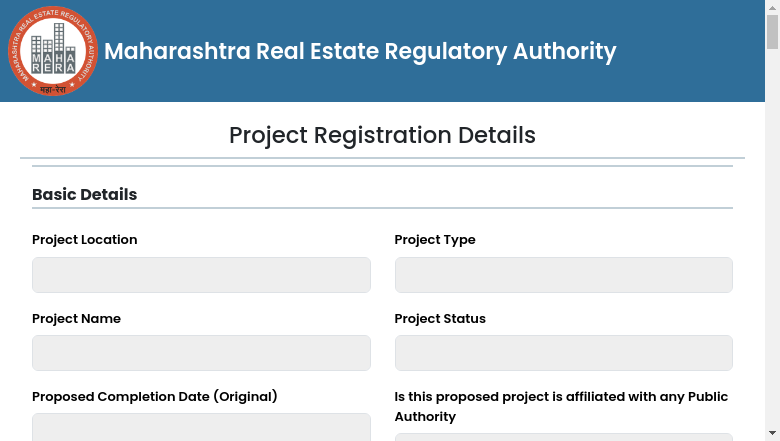
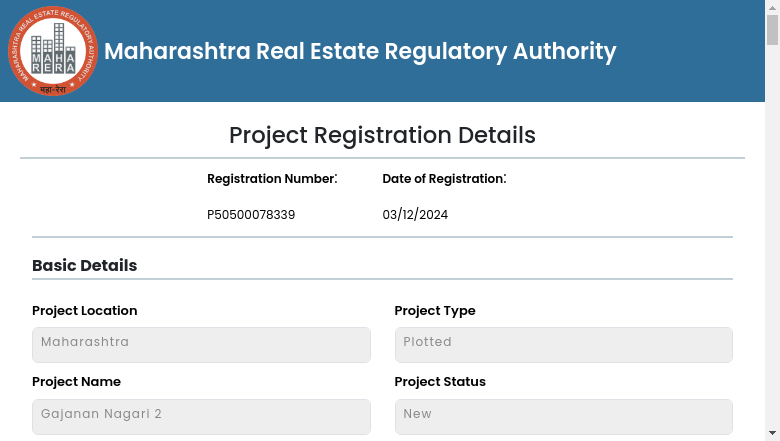
commit of 09 Dec 2024

diff --git a/scraper.py b/scraper.py
@@ -9,8 +9,9 @@ driver=setup_driver()
 client=connect_to_atlas()
 mg_db=client["property"]
 mg_collection=mg_db["maharashtra"]
-#4745
-pages = [i for i in range(4746,4747)]
+#
+#last page 4801
+pages = [i for i in range(4802,4802)]
 # pages = [i for i in range(4551,4651)]
 
 driver=setup_driver()
